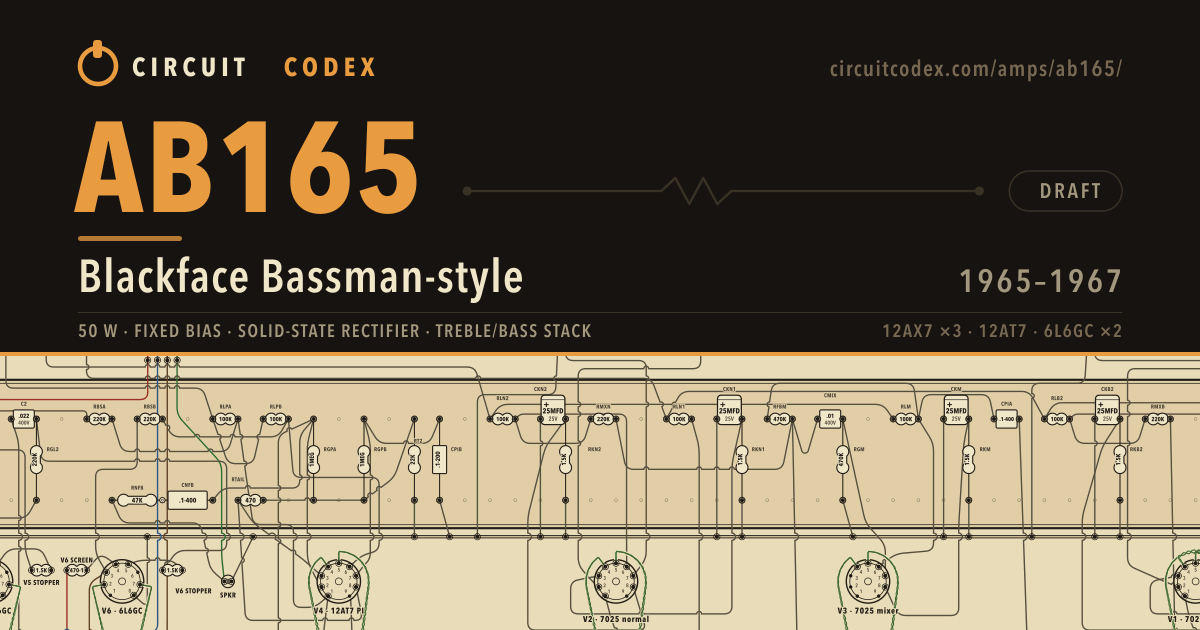
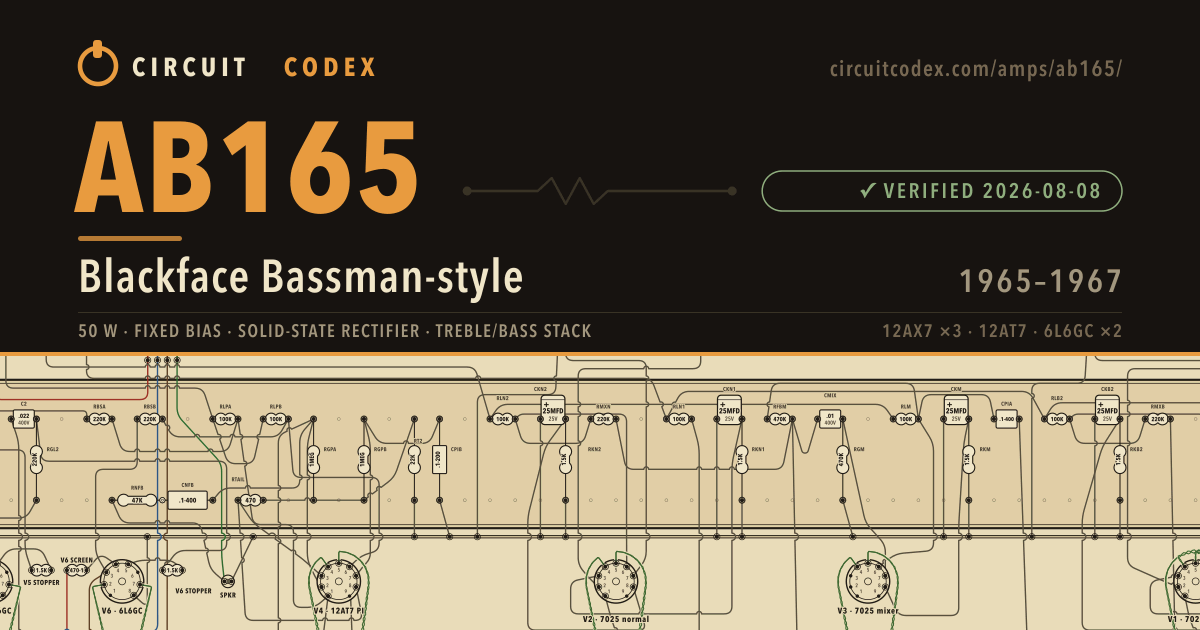
Verify: 6G2, AB165 and the AB763 Twin Reverb against their printed charts
Three of the fourteen new circuits clear the whole bar, so their badge is
earned rather than pending. Each has a printed factory voltage chart read
whole, every gated node inside the sheet's own +/-20% convention with zero
failures under the now-blocking gate, the full artifact set, and drawn board
wiring proved electrically equivalent to its netlist.

- 6g2: 11/11 charted nodes gated, worst 3.9% (the cathodyne cathode and its
  tail junction); both lower rails are predictions of the drawing's own
  dropper chain. The notes sentence naming a missing schematic as the blocker
  was stale — that artifact has landed — and is replaced.
- ab165: 19 nodes gated, worst 19.7% (the 12AT7 inverter's cold plate, with
  its twin at 17.0%) — inside the sheet's convention but with little margin,
  recorded as such so the pair is re-checked after any 12AT7 model refit. The
  two printed plate figures that contradict the drawing's own part values stay
  excluded as disputed with the arithmetic shown.
- ab763-twin: 20/20 nodes gated, worst 14.9%, nothing disputed; the two solved
  rails land inside 1% of their printed figures.

Social cards regenerated for the badge change and looked at.

Changed region(s): [[0.555, 0.2714, 0.925, 0.3619], [0.4625, 0.3016, 0.4933, 0.3317]]

diff --git a/amps/6g2/notes.md b/amps/6g2/notes.md
@@ -105,9 +105,9 @@ that value is further confirmed by the same chart match. Everything else — the
 rail chain, both preamp stages, the cathodyne's plate load, the output stage,
 and the bias supply — carries no such ambiguity.
 
-The entry stays a **draft** pending the maintainer's review, which is the only
-thing that grants `verified` here. The DC model itself is ready for it: every
-gated node reproduces inside 4%.
+This circuit is published as **verified**: every node the chart prints is
+compared, and the worst of them sits 3.9 % out against a sheet that states its
+own readings to ±20 %.
 
 ## The oscillator, excluded
 

diff --git a/amps/ab763-twin/notes.md b/amps/ab763-twin/notes.md
@@ -124,6 +124,10 @@ the shared-cathode node showing itself, because the chart prints +270 V at the
 other end of the same 820 Ω and two stages on one resistor cannot in fact sit
 30 V apart.
 
+This circuit is published as **verified**: every node the chart prints for a
+modelled stage is compared, none is set aside as disputed, and the worst gap is
+the one described just above.
+
 The **tremolo tube** is left out of the DC solution, both halves. The oscillator
 is a running phase-shift circuit whose printed +2.0 V cathode is a
 grid-leak-detected average rather than a quiescent point, and the lamp driver's

diff --git a/amps/ab165/notes.md b/amps/ab165/notes.md
@@ -107,7 +107,9 @@ contradicts the drawing's own numbers rather than this simulation's:
   the load on +320 V, and the printed +260 V is carried as a disputed node with
   the arithmetic above rather than quietly rewired to make it fit.
 
-Everything else in the chart is gated at the sheet's own ±20 % convention.
+Everything else in the chart is gated at the sheet's own ±20 % convention, and
+this circuit is published as **verified** on that basis — nineteen nodes
+compared, the worst of them the inverter plate pair above.
 
 ## Lineage
 
